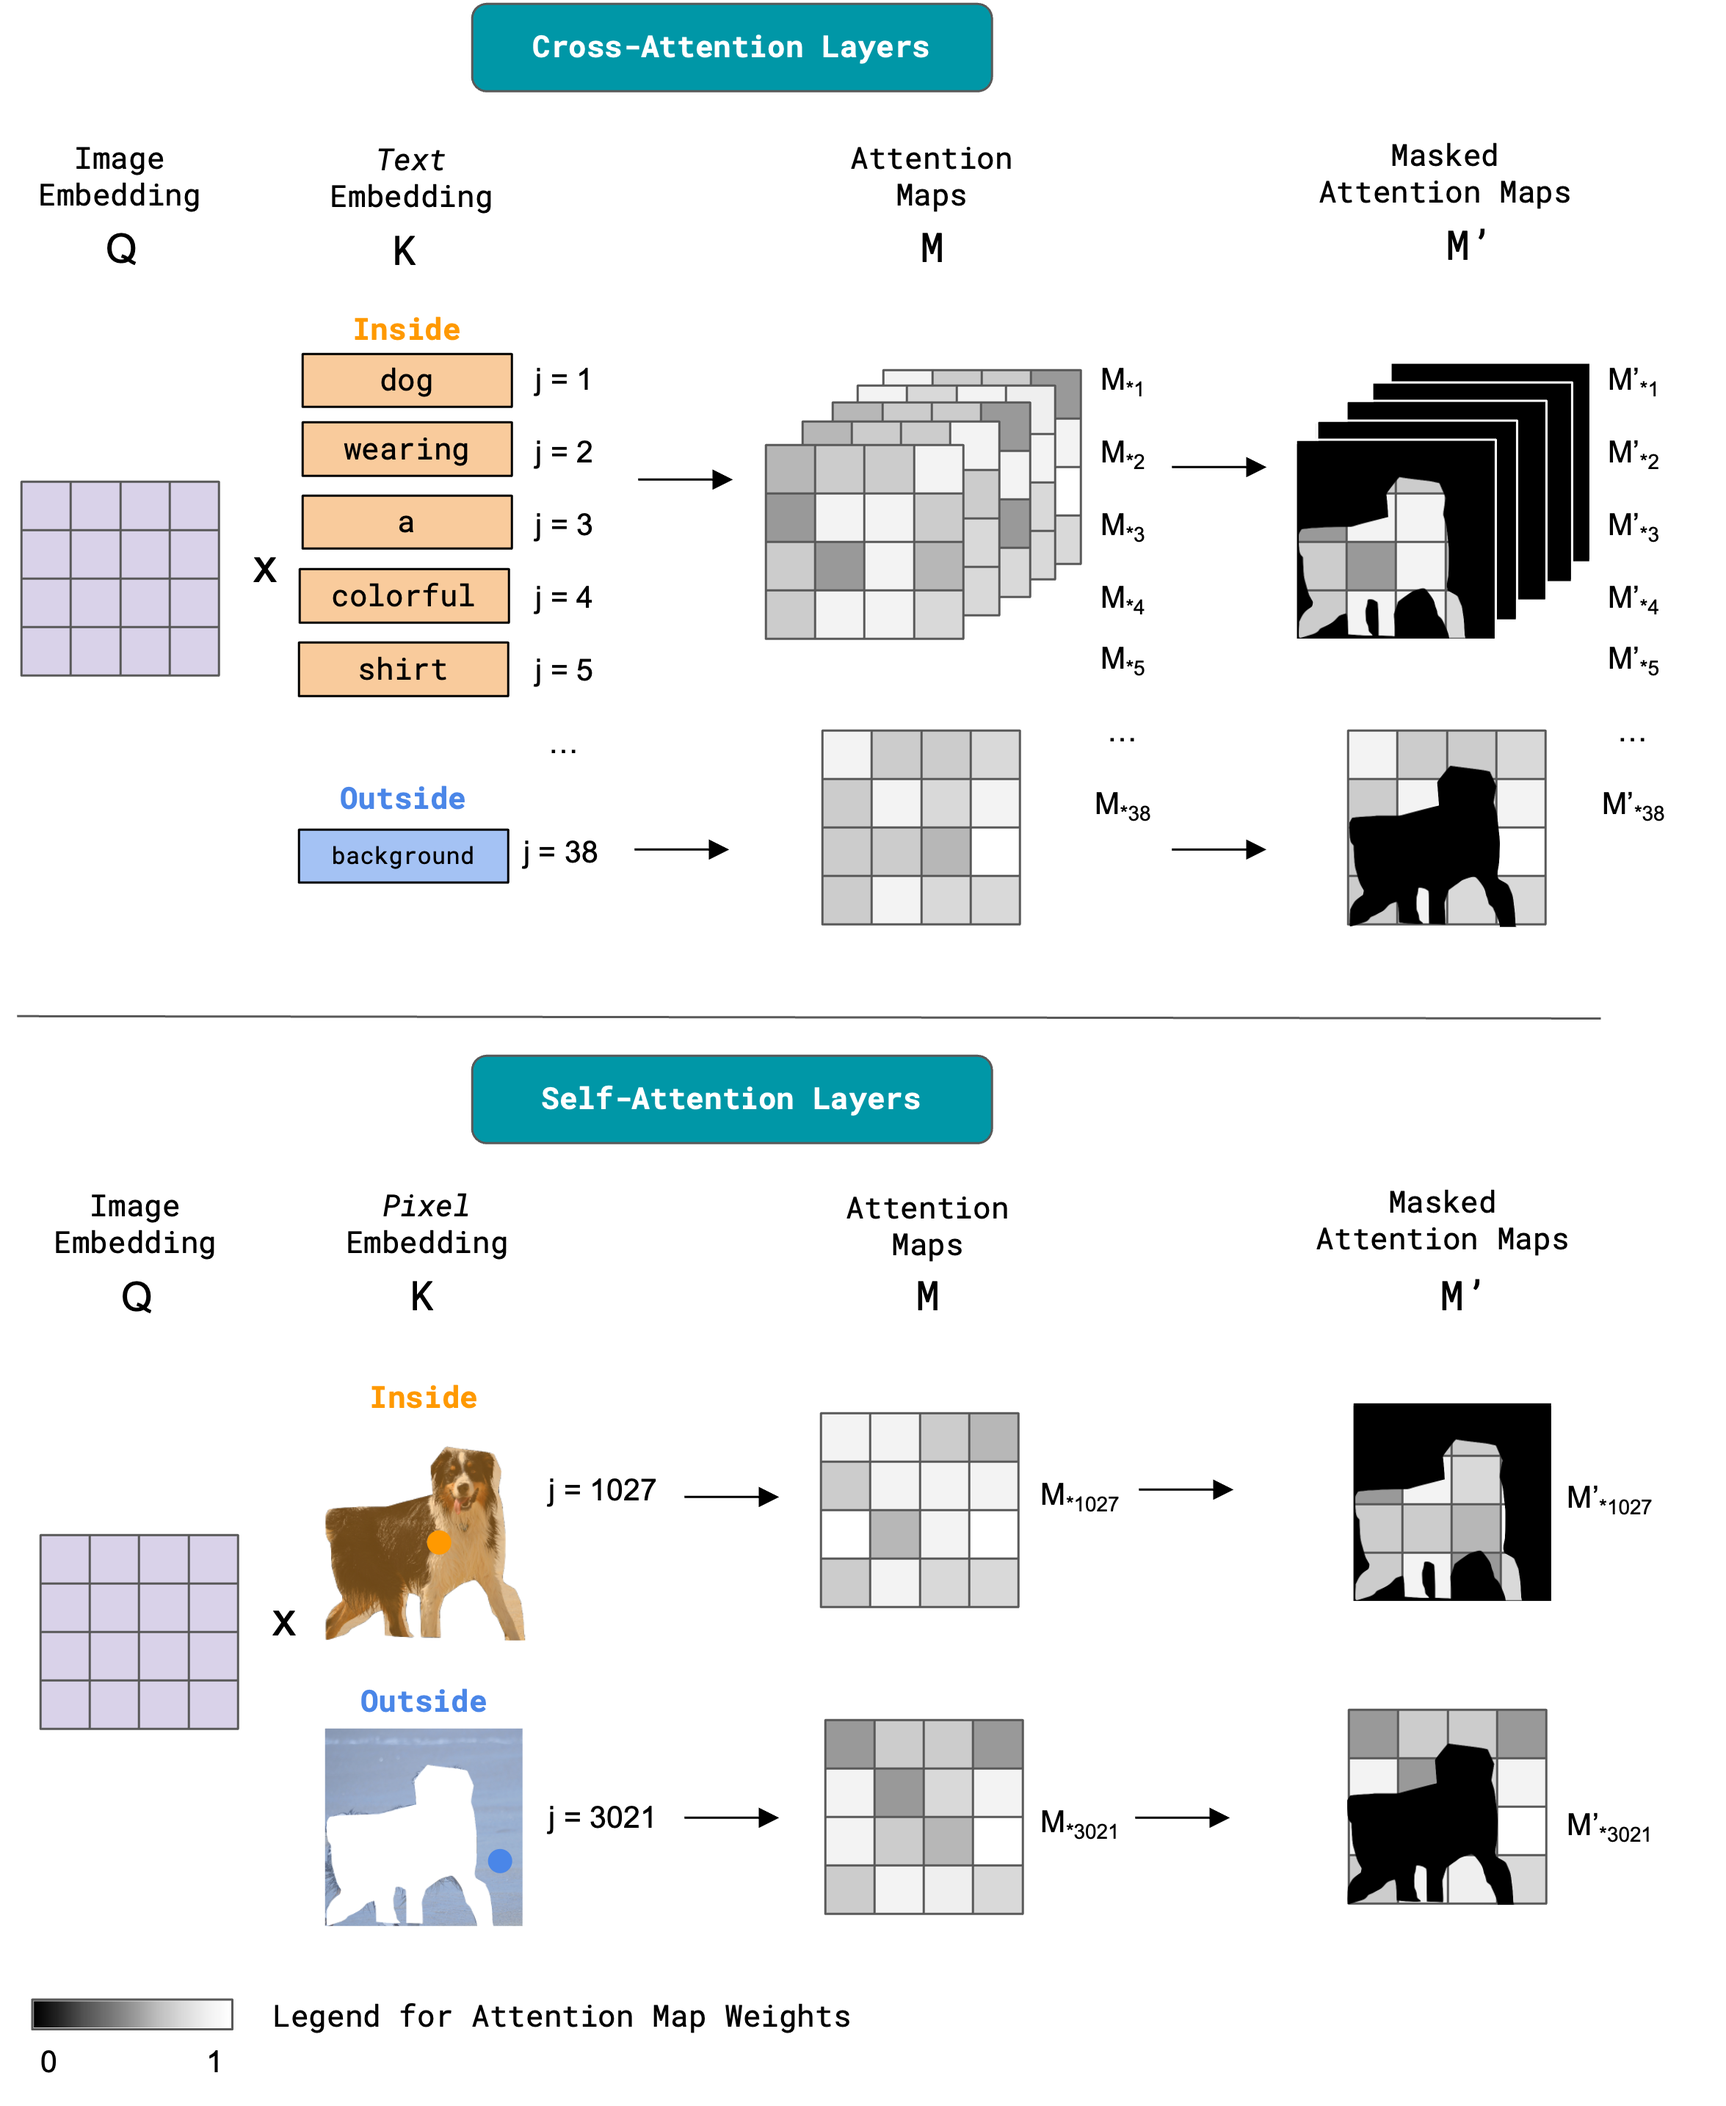
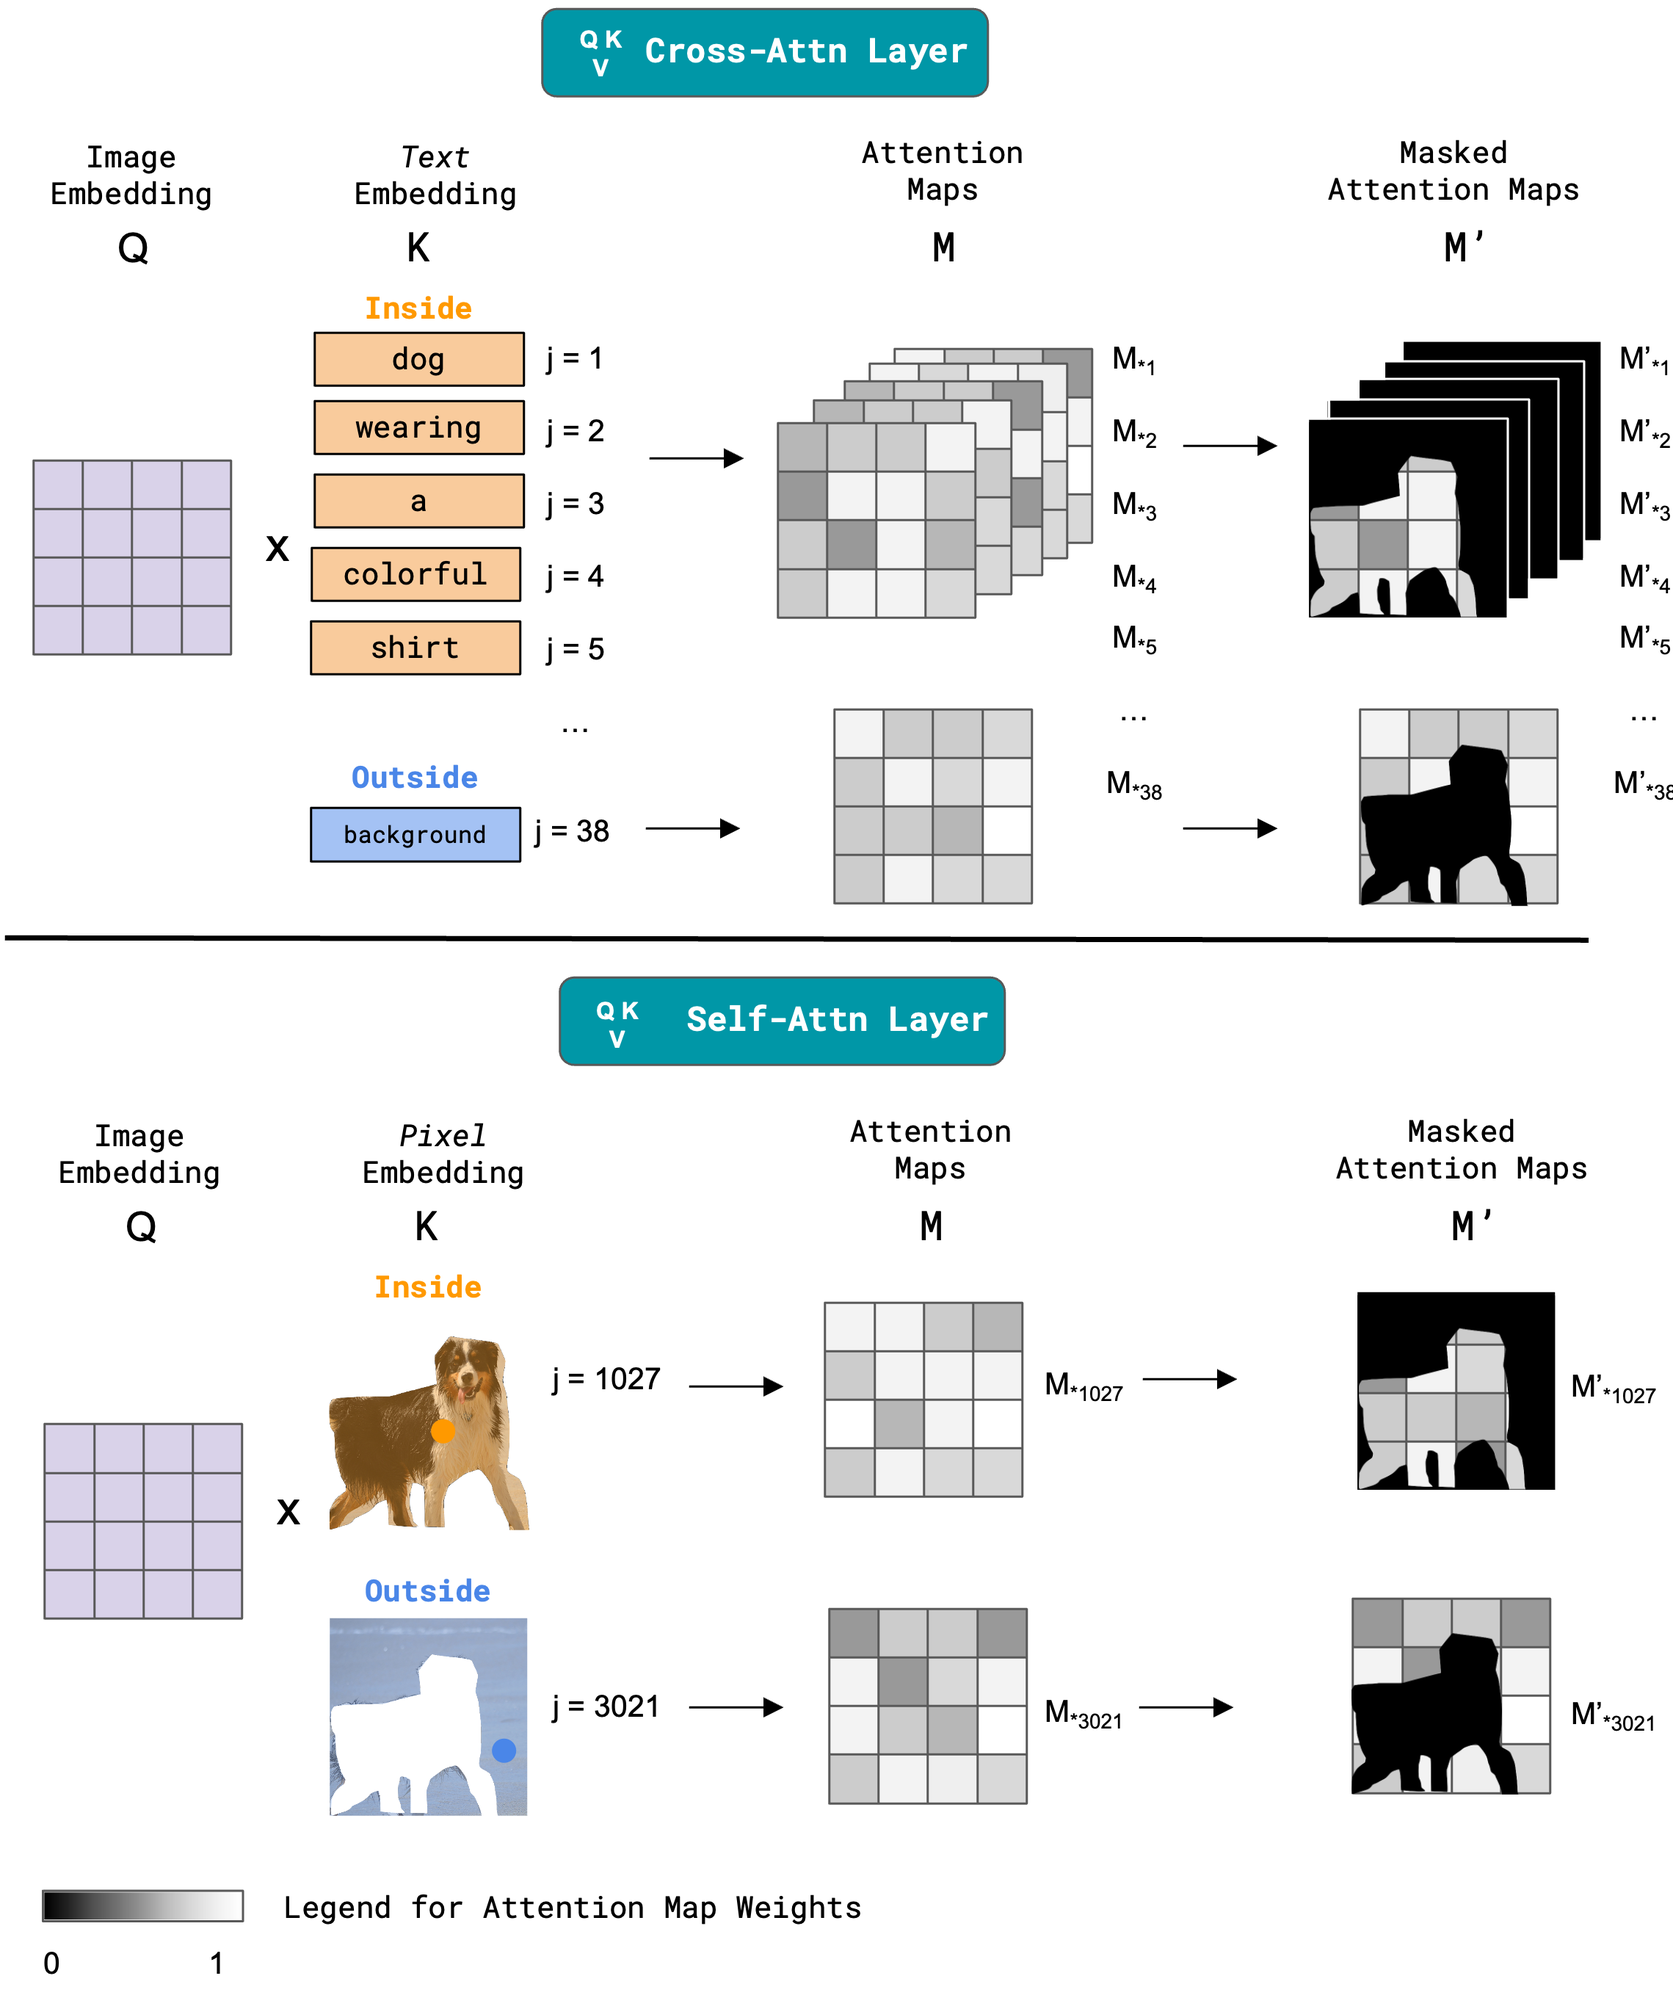
Update website

diff --git a/index.html b/index.html
@@ -89,12 +89,22 @@
               </span>
               <!-- Code Link. -->
               <span class="link-block">
-                <a href=""
-                   class="external-link button is-normal is-rounded is-dark" disabled>
+                <a href="https://github.com/shape-guided-diffusion/shape-guided-diffusion"
+                   class="external-link button is-normal is-rounded is-dark">
                   <span class="icon">
                       <i class="fab fa-github"></i>
                   </span>
-                  <span>Code (Coming Soon)</span>
+                  <span>Code</span>
+                  </a>
+              </span>
+              <!-- Demo Link. -->
+              <span class="link-block">
+                <a href="https://huggingface.co/spaces/shape-guided-diffusion/shape-guided-diffusion"
+                   class="external-link button is-normal is-rounded is-dark">
+                  <span class="icon">
+                      <i class="fas fa-rocket"></i>
+                  </span>
+                  <span>Demo</span>
                   </a>
               </span>
             </div>
@@ -112,77 +122,48 @@
 	  	  <img src="static/figures/teaser.png">
 	    </figure>
       <span class="is-size-6 has-text-centered">
-        When a target object silhouette is available to guide the image editing process existing methods often generate objects that are poorly aligned with the given shape. We propose Shape-Guided Diffusion, a training-free method which produces shape-faithful, text-aligned, realistic objects, by using a novel Inside-Outside Attention mechanism to align the generated content with the target silhouette.
+        We demonstrate the importance of using an explicit shape when performing a local edit on a real image. Prior work has difficulty preserving the source object's shape, even when adapted for local editing. We propose Shape-Guided Diffusion, a training-free method that uses a novel Inside-Outside Attention mechanism to delineate which spatial regions are object vs. background and ensure that edits are localized to the correct region.
+        Our method can be provided an object mask as input or infer a mask from text, as is shown in the above example.
       </span>
     </div>
   </div>
 </section>
 
 
-<section class="hero is-light is-small">
+<section class="hero is-small">
   <div class="hero-body">
     <div class="container">
-      <div class="has-text-centered">Examples of shape-guided edits synthesized by our method.</div>
+      <div class="has-text-centered">Examples of shape-guided edits synthesized by our method using automatically inferred masks.</div>
       <div id="results-carousel-face" class="carousel results-carousel" data-slides-to-show="1">
         <div class="item-1">
-        <img src="static/figures/carousel/graffiti_truck_success.png">
+        <img src="static/figures/carousel/1.png">
         </div>
         <div class="item-2">
-        <img src="static/figures/carousel/lego_truck_success.png">
+        <img src="static/figures/carousel/2.png">
         </div>
         <div class="item-3">
-      	<img src="static/figures/carousel/pbj_sandwich_success.png">
+      	<img src="static/figures/carousel/3.png">
         </div>
         <div class="item-4">
-        <img src="static/figures/carousel/tortilla_sandwich_success.png">
+        <img src="static/figures/carousel/4.png">
         </div>
         <div class="item-5">
-        <img src="static/figures/carousel/iridescent_bird_success.png">
+        <img src="static/figures/carousel/5.png">
         </div>
         <div class="item-6">
-        <img src="static/figures/carousel/blue_yellow_bird_success.png">
+        <img src="static/figures/carousel/6.png">
         </div>
         <div class="item-7">
-        <img src="static/figures/carousel/inflatable_boat_success.png">
+        <img src="static/figures/carousel/7.png">
         </div>
         <div class="item-8">
-        <img src="static/figures/carousel/candy_boat_success.png">
+        <img src="static/figures/carousel/8.png">
         </div>
         <div class="item-9">
-        <img src="static/figures/carousel/futuristic_horse_success.png">
+        <img src="static/figures/carousel/9.png">
         </div>
         <div class="item-10">
-        <img src="static/figures/carousel/gold_horse_success.png">
-        </div>
-        <div class="item-11">
-        <img src="static/figures/carousel/tie_cat_success.png">
-        </div>
-        <div class="item-12">
-        <img src="static/figures/carousel/leopard_cat_success.png">
-        </div>
-        <div class="item-13">
-        <img src="static/figures/carousel/glitter_kite_success.png">
-        </div>
-        <div class="item-14">
-        <img src="static/figures/carousel/origami_kite_success.png">
-        </div>
-        <div class="item-15">
-        <img src="static/figures/carousel/sunglasses_bear_success.png">
-        </div>
-        <div class="item-16">
-        <img src="static/figures/carousel/stuffed_bear_success.png">
-        </div>
-        <div class="item-17">
-        <img src="static/figures/carousel/colorful_dog_success.png">
-        </div>
-        <div class="item-18">
-        <img src="static/figures/carousel/floral_dog_success.png">
-        </div>
-        <div class="item-19">
-        <img src="static/figures/carousel/holi_elephant_success.png">
-        </div>
-        <div class="item-20">
-        <img src="static/figures/carousel/christmas_elephant_success.png">
+        <img src="static/figures/carousel/10.png">
         </div>
     </div>
     </div>
@@ -197,10 +178,8 @@
         <h2 class="title is-3">Abstract</h2>
         <div class="content has-text-justified">
           <p>
-            Shape can specify key object constraints, yet existing text-to-image diffusion models ignore this cue and synthesize objects that are incorrectly scaled, cut off, or replaced with background content. We propose a training-free method, Shape-Guided Diffusion, which uses a novel Inside-Outside Attention mechanism to constrain the cross-attention (and self-attention) maps such that prompt tokens (and pixels) referring to the inside of the shape cannot attend outside the shape, and vice versa.
-          </p>
-          <p>
-            To demonstrate the efficacy of our method, we propose a new image editing task where the model must replace an object specified by its mask and a text prompt. We curate a new ShapePrompts benchmark based on MS-COCO and achieve SOTA results in shape faithfulness, text alignment, and realism according to both quantitative metrics and human preferences.
+            When manipulating an object, existing text-to-image diffusion models often ignore the shape of the object and generate content that is incorrectly scaled, cut off, or replaced with background content. We propose a training-free method, Shape-Guided Diffusion, that modifies pretrained diffusion models to be sensitive to shape input specified by a user or automatically inferred from text. We use a novel Inside-Outside Attention mechanism during the inversion and generation process to apply this shape constraint to the cross- and self-attention maps. Our mechanism designates which spatial region is the object (inside) vs. background (outside) then associates edits specified by text prompts to the correct region.
+            We demonstrate the efficacy of our method on the shape-guided editing task, where the model must replace an object according to a text prompt and object mask. We curate a new ShapePrompts benchmark derived from MS-COCO and achieve SOTA results in shape faithfulness without a degradation in text alignment or image realism according to both automatic metrics and annotator ratings.
           </p>
         </div>
       </div>
@@ -217,7 +196,7 @@
         <h2 class="title is-3">Shape-Guided Diffusion</h2>
         <div class="content has-text-justified">
           <p>
-            Given two text prompts, one that describes the original object ("dog") and one that describes the desired object ("dog wearing a colorful shirt"), we modify a pretrained diffusion model such that it respects the object’s original shape during editing. To do this, we take the object mask as an additional input and apply Inside-Outside Attention to both the inversion and generation processes to independently synthesize the object and background.
+            Our method takes a real image, source prompt ("dog"), edit prompt ("dog wearing a colorful shirt"), as well as an optional object mask (inferred from the source prompt if not provided), and outputs an edited image. Left: we modify a frozen pretrained text-to-image diffusion model during both the inversion and generation processes. Right: we show a detailed view of one layer in the U-Net, where Inside-Outside Attention constrains the self- and cross-attention maps according to the mask.
           </p>
         </div>
         <figure class="image">
@@ -236,7 +215,7 @@
             In our Inside-Outside Attention mechanism, we modify the attention maps in both the cross-attention and self-attention layers. In the cross-attention layer depending on whether the text embedding refers to the inside or outside the object, we constrain the attention map M according to the object mask or the inverted object mask to produce M'. In the self-attention layer we perform a similar operation on the inside and outside pixel embeddings.
           </p>
           <figure class="image">
-        	<img style="width:50vw !important;" src="static/figures/cross-attn.png">
+        	<img style="width:50vw !important;" src="static/figures/inside-outside-attention.png">
           </figure>
         </div>
       </div>
@@ -250,7 +229,7 @@
         
         <div class="content has-text-justified">
           <p>
-            <b>Inter-Class Edits.</b> Our method can perform both intra- and inter-class edits to the same object. For example, we can both transform a cow into a "cow covered in gold and diamond chains" and into a "sheep."
+            <b>Inter-Class Edits.</b> Our method can perform both intra- and inter-class edits to the same object.
           </p>
           <figure class="image">
 	  		<img style="width:50vw !important;" src="static/figures/inter-class-edit.png">
@@ -259,7 +238,7 @@
         
         <div class="content has-text-justified">
           <p>
-            <b>Background Edits.</b> Our method is not only able to edit objects but also backgrounds. We demonstrate editing the background in a real image to different locations, seasons, and times of day while preserving the bus.
+            <b>Background Edits.</b> Our method is not only able to edit objects but also backgrounds.
           </p>
           <figure class="image">
 	  	  	<img src="static/figures/background-edit.png">
@@ -268,22 +247,13 @@
 
         <div class="content has-text-justified">
           <p>
-            <b>Simultaneous Inside-Outside Edits.</b> Since our method allows us to localize and separate the editing of the object and background, we can simultaneously edit both with two different prompts. This property allows us to maintain the relation of the object with the scene (the silhouette and exact position of the horse grazing on grass) and significantly modify both objects (converting the horse to a "futuristic biomechanical robot" and the background to the "Metropolitan Museum of Art.")
+            <b>Simultaneous Inside-Outside Edits.</b> Since our method allows us to localize and separate the editing of the object and background, we can simultaneously edit both with two different prompts. This property allows us to maintain the relation of the object with the scene.
           </p>
           <figure class="image">
 	  	  	<img src="static/figures/simultaneous-edit.png">
 	  	  </figure>
         </div>
-
-        <div class="content has-text-justified">
-          <p>
-            <b>Inferred Segmentation Mask Edits.</b> We also demonstrate that our method also works on automatically inferred masks predicted by MaskFormer, an off-the-shelf segmentation model. Note how our method is able to handle masks with reflections, multiple disjoint objects, and multiple overlapping objects. In a real world setting, this means that an off-the-shelf segmentation model can be used to infer the shape, allowing the user to only input an image and prompt referencing the object they would like to edit.
-          </p>
-          <figure class="image">
-	  	  	<img src="static/figures/inf-mask.png">
-	  	  </figure>
-        </div>
-
+        
       </div>
     </div>
     <!--/ C -->
